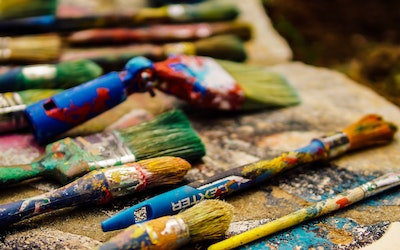
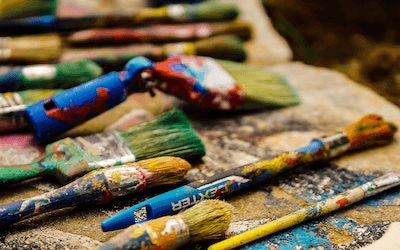
new

diff --git a/css/main.css b/css/main.css
@@ -32,7 +32,7 @@ header img {
 
 .hero {
   height: 355px;
-  background-image: url("/images/hero1.png");
+  background-image: url("/images/hero.png");
   background-size: cover;
   background-position: center;
   color: white;
